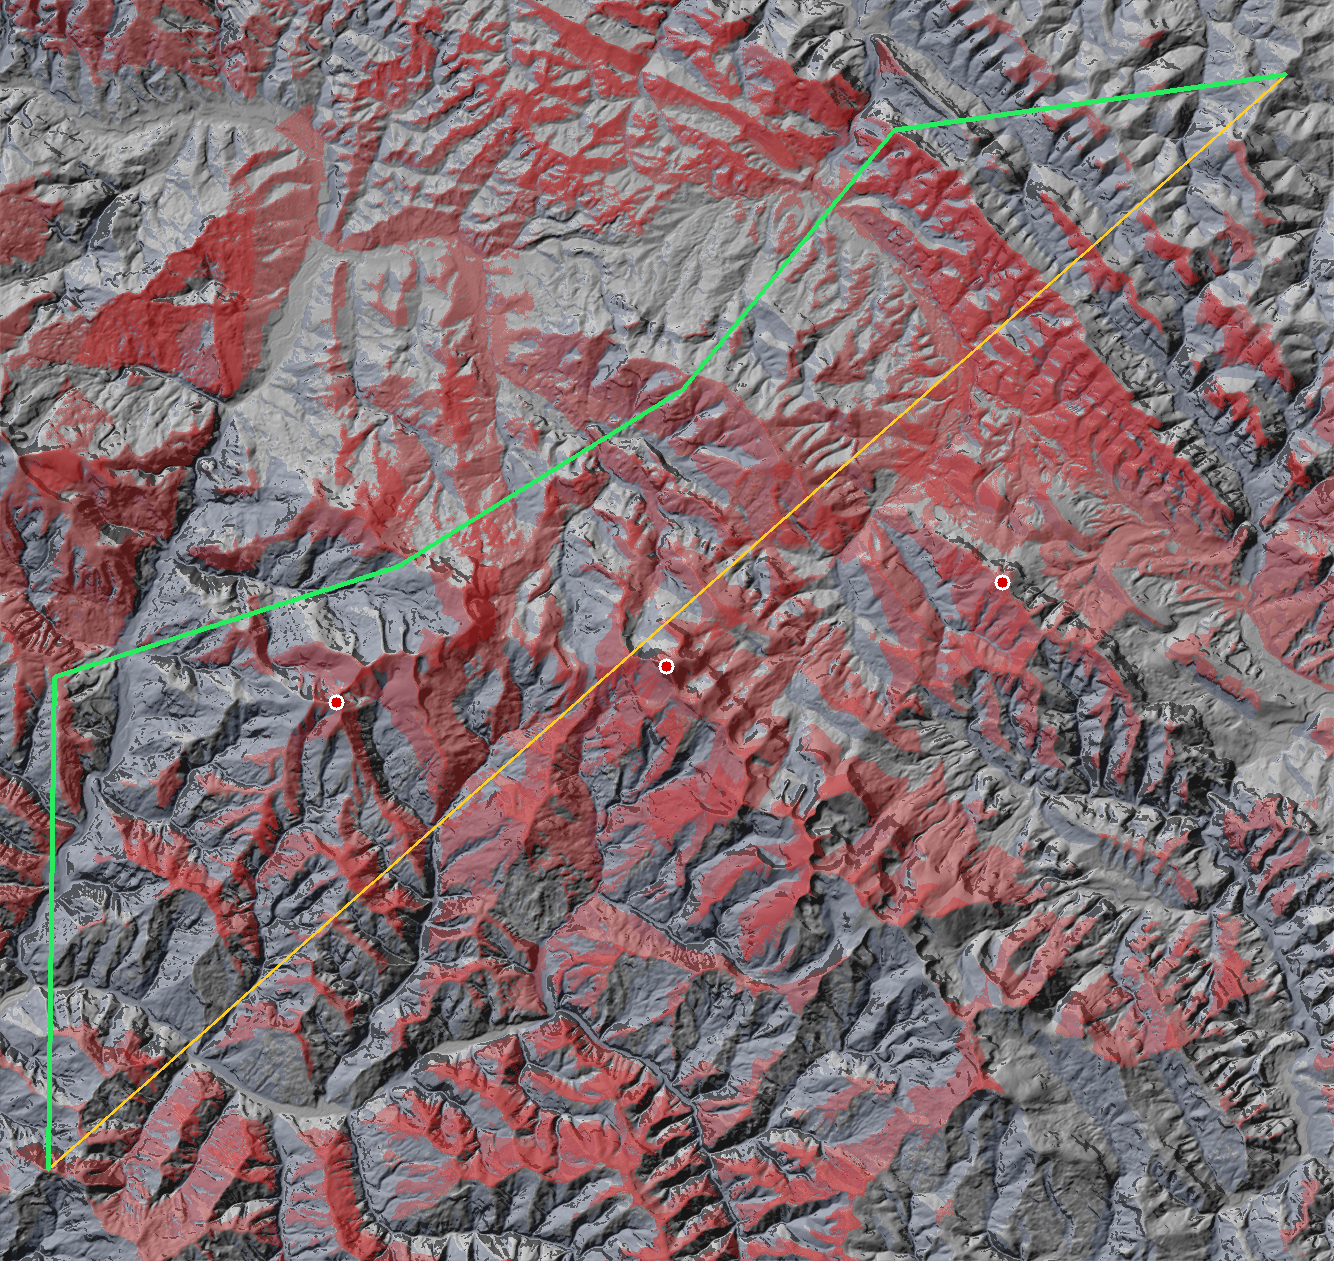
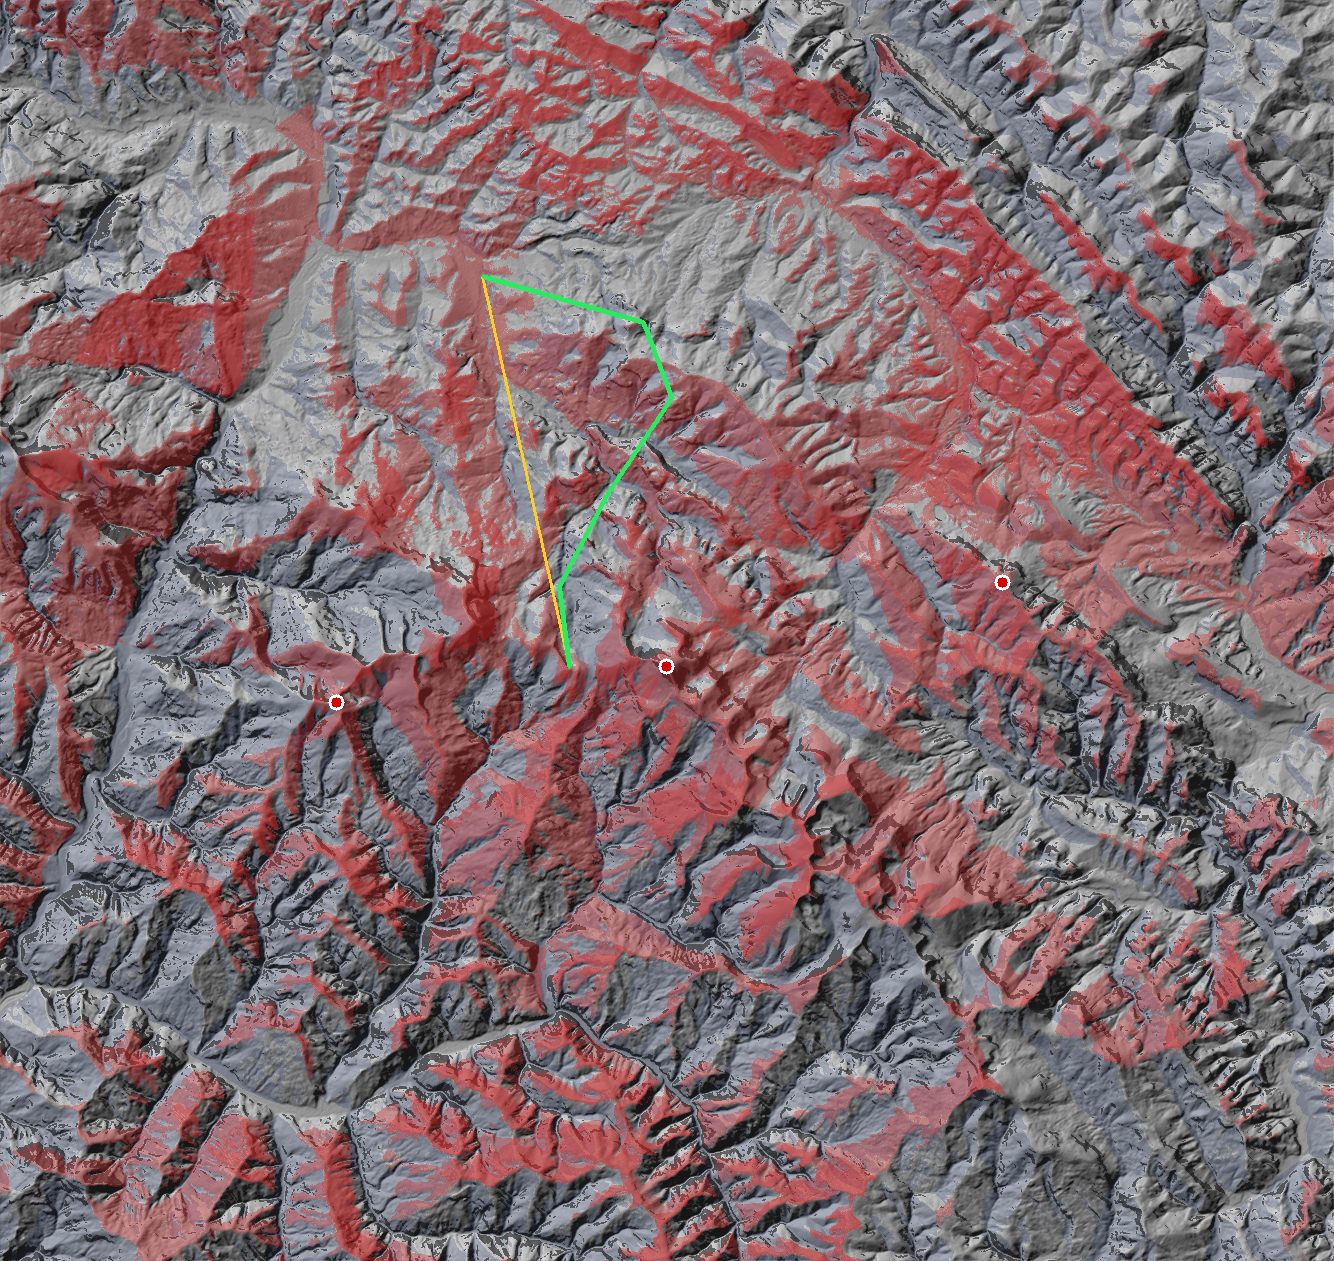
Add endurance check against vehicle range and climb
Charges level distance and total ascent separately, holds back a reserve
fraction, and reports feasibility per platform.

It immediately proved its worth: the example mission was a 58 km diagonal
across the box that no platform could complete. The geometry was fine and
the route was unflyable, which is exactly the hole a judge would have found.
Mission is now 12 km along a valley.

Ascent uses an 8 m hysteresis threshold rather than summing every cell
delta, though this turned out to be a minor correction - the climb across
Carpathian ridges is genuinely large, not model noise.

Endurance figures are labelled in the source as planning placeholders
rather than manufacturer specifications, because nobody verified them.

diff --git a/src/vehicles.js b/src/vehicles.js
@@ -5,10 +5,20 @@
 // tells you nothing useful about one. Everything here either crawls on the
 // ground or hovers just above it.
 //
-//   heightAboveGround - where the vehicle (and anything looking at it) sits
-//   maxSlopeDeg       - steepest ground it can cross; Infinity for anything airborne
-//   speed             - metres per second, used to turn exposure into seconds
-//   climbPenalty      - cost per metre of altitude gained, relative to a metre travelled
+//   heightAboveGround   - where the vehicle (and anything looking at it) sits
+//   maxSlopeDeg         - steepest ground it can cross; Infinity for anything airborne
+//   speed               - metres per second, used to turn exposure into seconds
+//   climbPenalty        - route cost per metre of altitude gained
+//   enduranceMinutes    - total operating time on one charge or tank
+//   reserveFraction     - share of endurance held back and never planned into
+//   climbSecondsPerMetre - endurance consumed per metre of ascent, expressed as
+//                          equivalent seconds of level travel
+//
+// THE NUMBERS BELOW ARE PLANNING PLACEHOLDERS, NOT MANUFACTURER SPECIFICATIONS.
+// They are order-of-magnitude estimates chosen so the endurance check does
+// something meaningful in a demo. Nobody verified them against a real platform.
+// Any real use must replace them with figures from the actual vehicle, and the
+// pitch should say so rather than quote them as if they were measured.
 
 export const VEHICLES = {
   ugvTracked: {
@@ -19,6 +29,9 @@ export const VEHICLES = {
     maxSlopeDeg: 30,
     speed: 2.5,
     climbPenalty: 6,
+    enduranceMinutes: 240,
+    reserveFraction: 0.2,
+    climbSecondsPerMetre: 2.0,
   },
   ugvWheeled: {
     id: "ugvWheeled",
@@ -28,6 +41,9 @@ export const VEHICLES = {
     maxSlopeDeg: 20,
     speed: 5,
     climbPenalty: 8,
+    enduranceMinutes: 180,
+    reserveFraction: 0.2,
+    climbSecondsPerMetre: 2.5,
   },
   quadNap: {
     id: "quadNap",
@@ -37,6 +53,9 @@ export const VEHICLES = {
     maxSlopeDeg: Infinity,
     speed: 8,
     climbPenalty: 3,
+    enduranceMinutes: 35,
+    reserveFraction: 0.25,
+    climbSecondsPerMetre: 0.6,
   },
   quadLow: {
     id: "quadLow",
@@ -46,6 +65,9 @@ export const VEHICLES = {
     maxSlopeDeg: Infinity,
     speed: 12,
     climbPenalty: 3,
+    enduranceMinutes: 40,
+    reserveFraction: 0.25,
+    climbSecondsPerMetre: 0.5,
   },
   quadFpv: {
     id: "quadFpv",
@@ -55,8 +77,53 @@ export const VEHICLES = {
     maxSlopeDeg: Infinity,
     speed: 25,
     climbPenalty: 2,
+    enduranceMinutes: 15,
+    reserveFraction: 0.25,
+    climbSecondsPerMetre: 0.4,
   },
 };
+
+// Can this platform actually complete this route?
+//
+// A route the geometry likes is worthless if the vehicle runs out of battery
+// halfway along it. Level distance and total ascent are charged separately,
+// because climbing 1400 m of Carpathian ridge costs a tracked UGV far more
+// than the same distance on the flat.
+export function checkEndurance(route, vehicle) {
+  const usableSeconds =
+    vehicle.enduranceMinutes * 60 * (1 - vehicle.reserveFraction);
+  const levelSeconds = route.metres / vehicle.speed;
+  const climbSeconds = route.ascentMetres * vehicle.climbSecondsPerMetre;
+  const requiredSeconds = levelSeconds + climbSeconds;
+
+  return {
+    usableSeconds: usableSeconds,
+    levelSeconds: levelSeconds,
+    climbSeconds: climbSeconds,
+    requiredSeconds: requiredSeconds,
+    feasible: requiredSeconds <= usableSeconds,
+    // Positive means spare capacity, negative means short by that fraction.
+    marginFraction: (usableSeconds - requiredSeconds) / usableSeconds,
+    // How far this platform could go on the level with no climbing at all.
+    levelRangeMetres: usableSeconds * vehicle.speed,
+  };
+}
+
+export function describeEndurance(endurance) {
+  const minutes = (s) => (s / 60).toFixed(0) + " min";
+  if (endurance.feasible) {
+    return (
+      "FEASIBLE, needs " + minutes(endurance.requiredSeconds) +
+      " of " + minutes(endurance.usableSeconds) + " usable (" +
+      (endurance.marginFraction * 100).toFixed(0) + "% spare)"
+    );
+  }
+  return (
+    "NOT FEASIBLE, needs " + minutes(endurance.requiredSeconds) +
+    " but only " + minutes(endurance.usableSeconds) + " usable (short by " +
+    (-endurance.marginFraction * 100).toFixed(0) + "%)"
+  );
+}
 
 // Ground slope in degrees at every cell. Needed for UGV trafficability, and
 // reused by the hillshade.

diff --git a/scripts/scenario.js b/scripts/scenario.js
@@ -21,6 +21,8 @@ import {
   trafficableFraction,
   concealedFraction,
   computeUsable,
+  checkEndurance,
+  describeEndurance,
 } from "../src/vehicles.js";
 
 const missionFile = process.argv[2] || "data/threats.json";
@@ -118,12 +120,14 @@ console.log("\nroute   " + start.label + " -> " + goal.label +
 // --- per vehicle ----------------------------------------------------------
 const order = ["ugvTracked", "ugvWheeled", "quadNap", "quadLow", "quadFpv"];
 let failures = 0;
+const infeasible = [];
 
 console.log("\n--- corridor and route by platform ---");
 console.log(
   "platform".padEnd(28) + "AGL".padStart(6) + "trafficable".padStart(13) +
   "concealed".padStart(11) + "usable".padStart(9) +
-  "direct exp".padStart(12) + "planned exp".padStart(13) + "detour".padStart(8)
+  "direct exp".padStart(12) + "planned exp".padStart(13) + "detour".padStart(8) +
+  "endurance".padStart(18)
 );
 
 for (const id of order) {
@@ -151,6 +155,13 @@ for (const id of order) {
   const direct = planned.direct;
   const best = planned.best;
   const detour = ((best.metres / direct.metres - 1) * 100).toFixed(0) + "%";
+  const endurance = checkEndurance(best, vehicle);
+  if (!endurance.feasible) {
+    infeasible.push(vehicle.label + ": " + describeEndurance(endurance) +
+      "  (" + (best.metres / 1000).toFixed(1) + " km, " +
+      best.ascentMetres.toFixed(0) + " m of climb, level range " +
+      (endurance.levelRangeMetres / 1000).toFixed(0) + " km)");
+  }
 
   console.log(
     vehicle.label.padEnd(28) +
@@ -160,7 +171,10 @@ for (const id of order) {
     pct(usableCount / cellCount).padStart(9) +
     (direct.exposedSeconds.toFixed(0) + " s").padStart(12) +
     (best.exposedSeconds.toFixed(0) + " s").padStart(13) +
-    detour.padStart(8)
+    detour.padStart(8) +
+    (endurance.feasible
+      ? ("OK " + (endurance.marginFraction * 100).toFixed(0) + "% spare")
+      : ("OVER by " + (-endurance.marginFraction * 100).toFixed(0) + "%")).padStart(18)
   );
 
   if (best.exposedSeconds > direct.exposedSeconds) {
@@ -199,6 +213,14 @@ for (const id of order) {
     fs.writeFileSync(file, encodePng(dem.width, dem.height, rgb));
     console.log("    wrote " + file);
   }
+}
+
+if (infeasible.length > 0) {
+  console.log("\n--- endurance: these routes cannot be flown ---");
+  for (const line of infeasible) {
+    console.log("  " + line);
+  }
+  console.log("  (endurance figures are planning placeholders, not manufacturer specs)");
 }
 
 console.log(

diff --git a/src/route.js b/src/route.js
@@ -6,6 +6,10 @@
 // best-scoring path gives a route that looks the same on screen and takes a
 // fraction of the effort.
 
+// Sustained rise, in metres, before it counts as climbing. Below this it is
+// elevation-model noise, not a hill.
+const ASCENT_THRESHOLD = 8;
+
 // Deterministic generator, so the same seed always yields the same route.
 // A route that changes between the rehearsal and the demo is not a route.
 function makeRandom(seed) {
@@ -31,7 +35,10 @@ function scorePath(dem, points, grids, options) {
   let exposedSeconds = 0;
   let shadowedSeconds = 0;
   let blockedCells = 0;
+  let ascentMetres = 0;
+  let descentMetres = 0;
   let cost = 0;
+  let climbReference = null;
   const trace = [];
 
   for (let leg = 0; leg < points.length - 1; leg++) {
@@ -69,12 +76,24 @@ function scorePath(dem, points, grids, options) {
       }
 
       // Climbing costs energy, and it costs a UGV far more than an aircraft.
-      if (trace.length > 1) {
-        const previousIndex = trace[trace.length - 2];
-        const rise = grids.elev[index] - grids.elev[previousIndex];
-        if (rise > 0) {
-          cost = cost + rise * options.climbPenalty;
-        }
+      //
+      // Ascent uses a hysteresis threshold rather than summing every positive
+      // step. Adding up 30 m cell-to-cell deltas over a 50 km route counts
+      // every ripple in the elevation model as a hill and inflates total climb
+      // several times over - the same effect that makes a coastline's length
+      // depend on the ruler. Only a sustained rise past ASCENT_THRESHOLD is
+      // real climbing.
+      const here = grids.elev[index];
+      if (climbReference === null) {
+        climbReference = here;
+      } else if (here > climbReference + ASCENT_THRESHOLD) {
+        const rise = here - climbReference;
+        ascentMetres = ascentMetres + rise;
+        cost = cost + rise * options.climbPenalty;
+        climbReference = here;
+      } else if (here < climbReference - ASCENT_THRESHOLD) {
+        descentMetres = descentMetres + (climbReference - here);
+        climbReference = here;
       }
 
       const seenBy = grids.exposure[index];
@@ -100,6 +119,8 @@ function scorePath(dem, points, grids, options) {
     exposedSeconds: exposedSeconds,
     shadowedSeconds: shadowedSeconds,
     blockedCells: blockedCells,
+    ascentMetres: ascentMetres,
+    descentMetres: descentMetres,
     cost: cost,
   };
 }

diff --git a/scripts/verify.js b/scripts/verify.js
@@ -143,6 +143,41 @@ console.log("  cover removed by the second threat: " + pct(lost));
 check("second threat removes real cover", lost > 0.05, pct(lost) + " removed, need > 5.0%");
 check("some cover still survives two threats", hiddenBoth > 0.10, pct(hiddenBoth));
 
+// ---------------------------------------------------------------- step 6
+console.log("\nSTEP 6  Endurance check must reject what the platform cannot do");
+
+const { VEHICLES, checkEndurance } = await import("../src/vehicles.js");
+const quad = VEHICLES.quadLow;
+
+// A route inside the level range with no climbing must be feasible; one well
+// beyond it must not be. Asserting only one direction would pass on a function
+// that always returned the same answer.
+const shortRoute = { metres: 5000, ascentMetres: 0 };
+const longRoute = { metres: 200000, ascentMetres: 0 };
+const shortResult = checkEndurance(shortRoute, quad);
+const longResult = checkEndurance(longRoute, quad);
+
+console.log("  " + quad.label + " level range: " + (shortResult.levelRangeMetres / 1000).toFixed(1) + " km");
+check("5 km route is feasible", shortResult.feasible === true);
+check("200 km route is not feasible", longResult.feasible === false);
+
+// Climbing must consume endurance. Same distance, different ascent.
+const flat = checkEndurance({ metres: 15000, ascentMetres: 0 }, quad);
+const hilly = checkEndurance({ metres: 15000, ascentMetres: 1200 }, quad);
+console.log(
+  "  15 km flat needs " + (flat.requiredSeconds / 60).toFixed(0) +
+  " min, same distance with 1200 m of climb needs " + (hilly.requiredSeconds / 60).toFixed(0) + " min"
+);
+check("climbing costs endurance", hilly.requiredSeconds > flat.requiredSeconds);
+
+// The reserve must actually be held back, not quietly spent.
+const usableIfNoReserve = quad.enduranceMinutes * 60;
+check(
+  "reserve is withheld from the usable budget",
+  flat.usableSeconds < usableIfNoReserve,
+  (flat.usableSeconds / 60).toFixed(0) + " min usable of " + quad.enduranceMinutes + " min total"
+);
+
 console.log("");
 if (failures > 0) {
   console.log(failures + " CHECK(S) FAILED - do not build on this");
